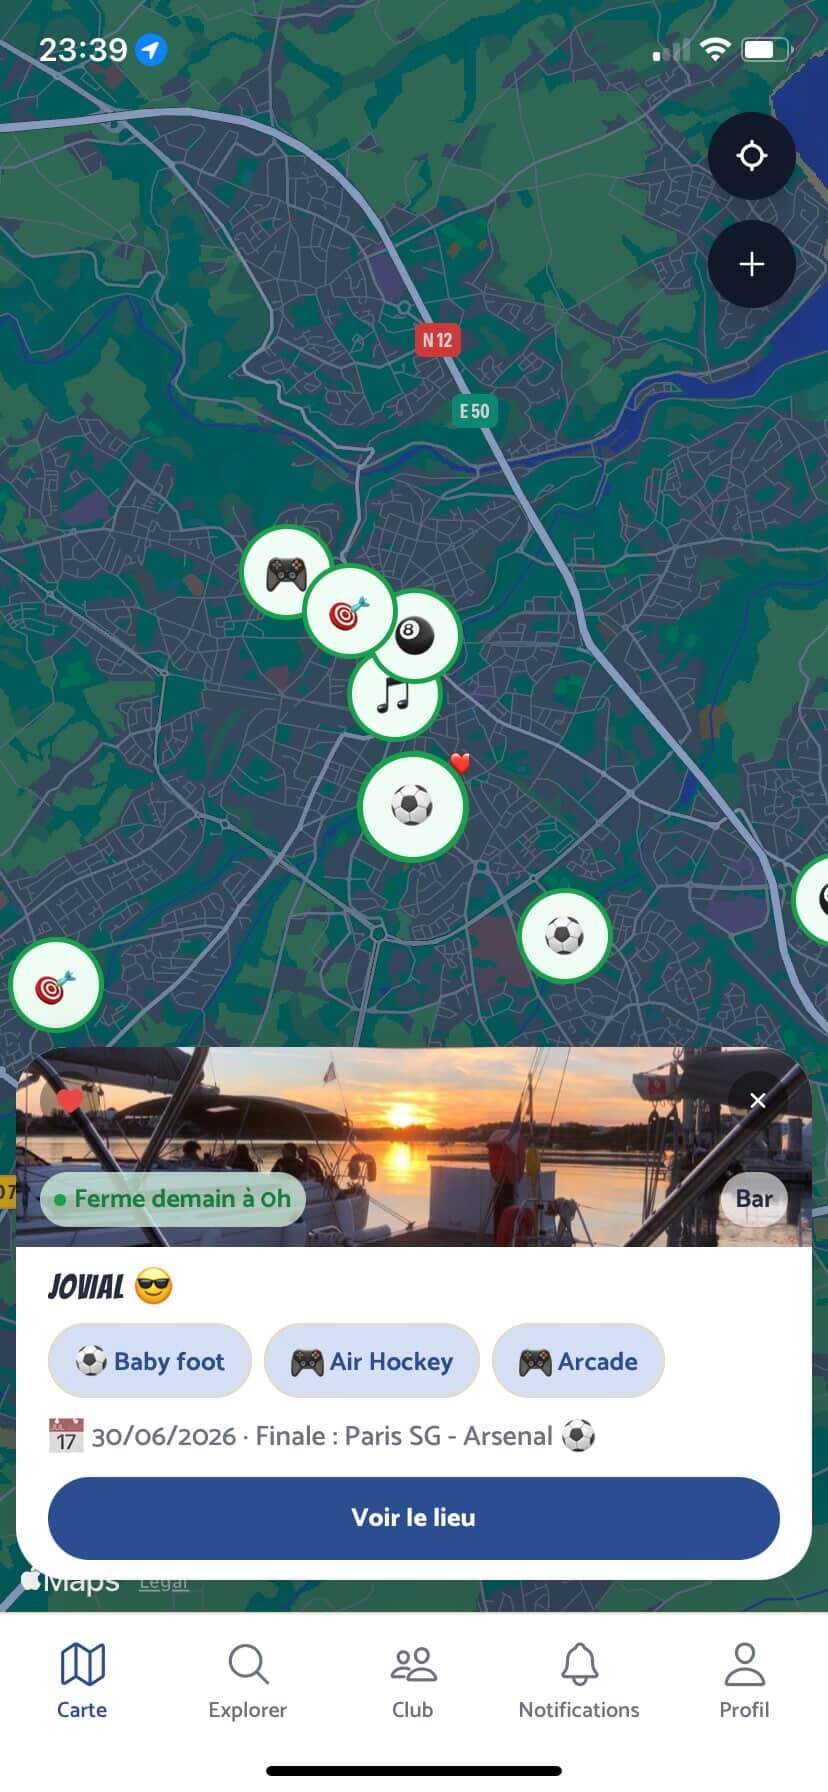
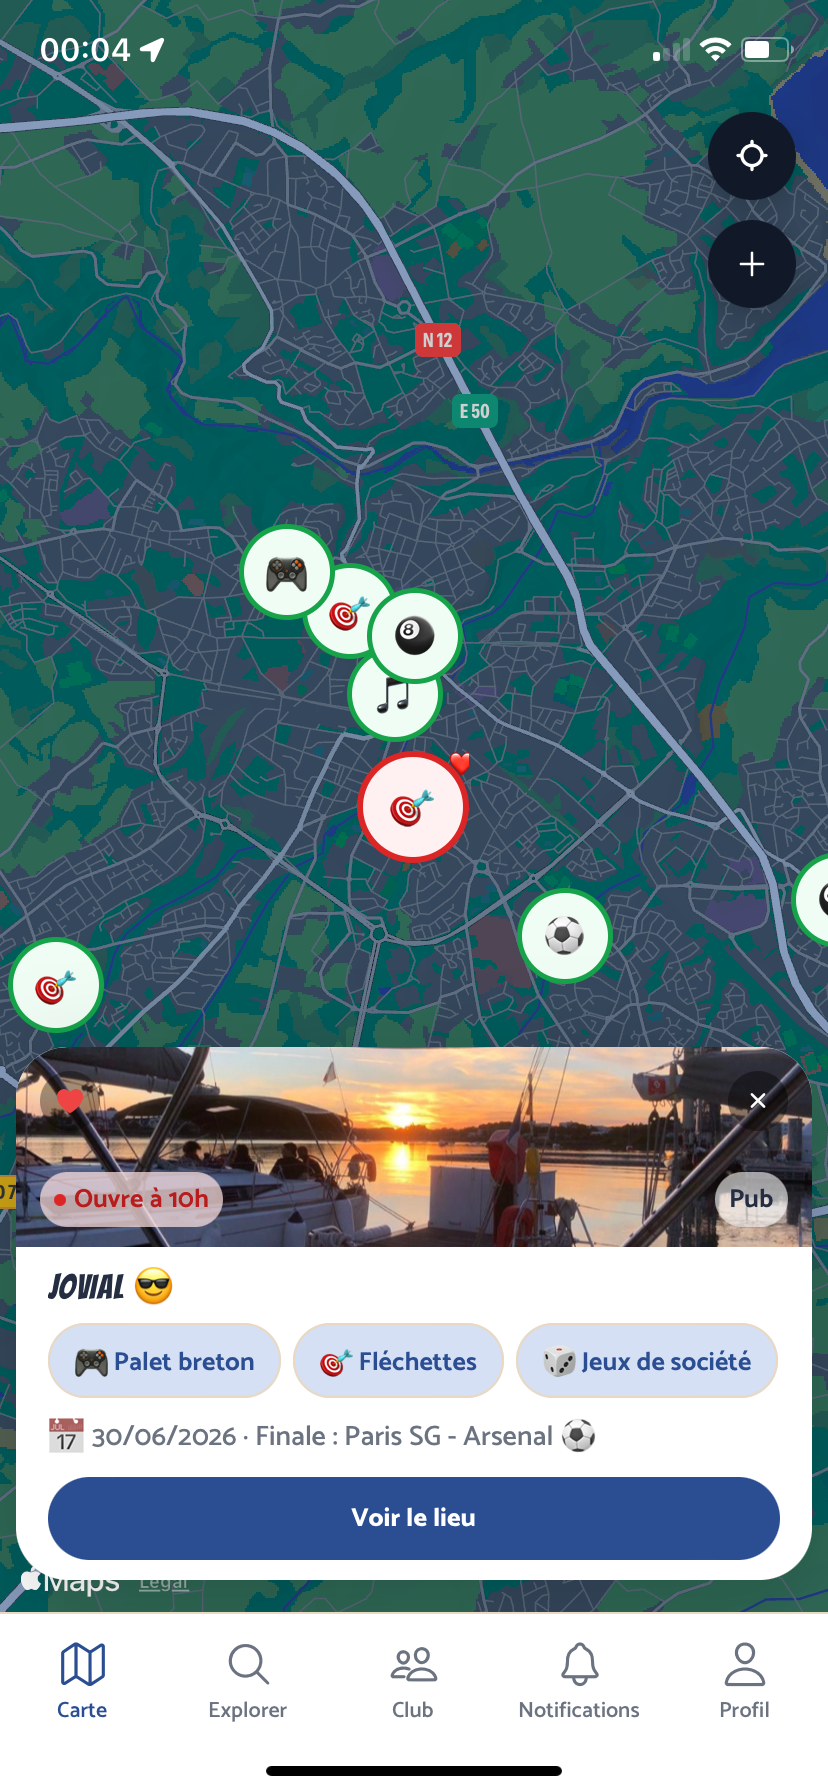
Add Canva mockup PNGs + update hero layout

diff --git a/app/page.tsx b/app/page.tsx
@@ -63,84 +63,27 @@ const steps = [
   { number: "04", title: "Profite de ta soirée", desc: "Partage tes bons plans, découvre de nouveaux lieux, vis l'instant." },
 ];
 
-/** Mockup iPhone 15 Pro en CSS pur */
+/** Mockup iPhone — SVG frame sur screenshot (aucun clip CSS sur l'image) */
 function PhoneMockup({ src, alt }: { src: string; alt: string }) {
   return (
-    <div style={{
-      position: "relative",
-      borderRadius: 48,
-      background: "linear-gradient(145deg, #2a2a2a 0%, #1a1a1a 50%, #0f0f0f 100%)",
-      padding: 10,
-      boxShadow: `
-        inset 0 0 0 1.5px rgba(255,255,255,0.12),
-        inset 0 1px 0 rgba(255,255,255,0.2),
-        0 0 0 1px rgba(0,0,0,0.6)
-      `,
-    }}>
-      {/* Dynamic Island */}
+    <div style={{ position: "relative", width: "100%" }}>
+      {/* Screenshot — aucun border-radius, aucun overflow, aucun clip */}
       <div style={{
         position: "absolute",
-        top: 14,
-        left: "50%",
-        transform: "translateX(-50%)",
-        width: 72,
-        height: 22,
-        background: "#000",
-        borderRadius: 20,
-        zIndex: 10,
-        boxShadow: "0 0 0 1px rgba(255,255,255,0.06)",
+        top: "1.3%",
+        left: "2.8%",
+        right: "2.8%",
+        bottom: "1.3%",
+        backgroundImage: `url(${src})`,
+        backgroundSize: "cover",
+        backgroundPosition: "top center",
       }} />
-
-      {/* Écran */}
-      <div style={{
-        borderRadius: 40,
-        overflow: "hidden",
-        aspectRatio: "9 / 19.5",
-        background: "#000",
-        position: "relative",
-      }}>
-        <img
-          src={src}
-          alt={alt}
-          style={{ width: "100%", height: "100%", objectFit: "cover", objectPosition: "top", display: "block", imageRendering: "crisp-edges" }}
-        />
-        {/* Reflet subtil sur l'écran */}
-        <div style={{
-          position: "absolute",
-          top: 0, left: 0, right: 0,
-          height: "30%",
-          background: "linear-gradient(to bottom, rgba(255,255,255,0.06), transparent)",
-          pointerEvents: "none",
-        }} />
-      </div>
-
-      {/* Bouton power */}
-      <div style={{
-        position: "absolute", right: -3, top: 90,
-        width: 3, height: 36,
-        background: "linear-gradient(to right, #2a2a2a, #444)",
-        borderRadius: "0 3px 3px 0",
-      }} />
-      {/* Boutons volume */}
-      <div style={{
-        position: "absolute", left: -3, top: 80,
-        width: 3, height: 28,
-        background: "linear-gradient(to left, #2a2a2a, #444)",
-        borderRadius: "3px 0 0 3px",
-      }} />
-      <div style={{
-        position: "absolute", left: -3, top: 118,
-        width: 3, height: 28,
-        background: "linear-gradient(to left, #2a2a2a, #444)",
-        borderRadius: "3px 0 0 3px",
-      }} />
-      {/* Bouton silencieux */}
-      <div style={{
-        position: "absolute", left: -3, top: 55,
-        width: 3, height: 16,
-        background: "linear-gradient(to left, #2a2a2a, #444)",
-        borderRadius: "3px 0 0 3px",
-      }} />
+      {/* SVG frame par-dessus — masque les coins, ajoute le châssis */}
+      <img
+        src="/iphone-frame.svg"
+        alt={alt}
+        style={{ width: "100%", display: "block", position: "relative", zIndex: 2 }}
+      />
     </div>
   );
 }
@@ -189,35 +132,30 @@ export default function HomePage() {
           </div>
 
           {/* ── Mockups iPhone ── */}
-          <div className="hidden lg:block relative" style={{ height: 660 }}>
+          <div className="hidden lg:block relative" style={{ height: 720 }}>
 
-            {/* Téléphone ARRIÈRE — fiche établissement, incliné droite */}
+            {/* Téléphone ARRIÈRE — fiche établissement, décalé en haut à droite */}
             <div style={{
               position: "absolute",
-              right: 20,
-              bottom: 30,
-              width: 240,
-              transform: "rotate(8deg)",
-              transformOrigin: "bottom center",
+              right: 0,
+              top: 20,
+              width: 260,
               zIndex: 10,
-              filter: "drop-shadow(0px 30px 50px rgba(0,0,0,0.65))",
-              opacity: 0.95,
             }}>
-              <PhoneMockup src="/screen-venue.jpg" alt="Fiche établissement Jovial" />
+              <img src="/mockup-venue.png" alt="Fiche établissement Jovial"
+                style={{ width: "100%", display: "block", mixBlendMode: "multiply" }} />
             </div>
 
-            {/* Téléphone AVANT — carte, légèrement incliné gauche */}
+            {/* Téléphone AVANT — carte, en bas à gauche */}
             <div style={{
               position: "absolute",
-              left: 20,
+              left: 0,
               bottom: 0,
-              width: 270,
-              transform: "rotate(-5deg)",
-              transformOrigin: "bottom center",
+              width: 300,
               zIndex: 20,
-              filter: "drop-shadow(0px 40px 70px rgba(0,0,0,0.8))",
             }}>
-              <PhoneMockup src="/screen-map.jpg" alt="Carte interactive Jovial" />
+              <img src="/mockup-map.png" alt="Carte interactive Jovial"
+                style={{ width: "100%", display: "block", mixBlendMode: "multiply" }} />
             </div>
 
           </div>
